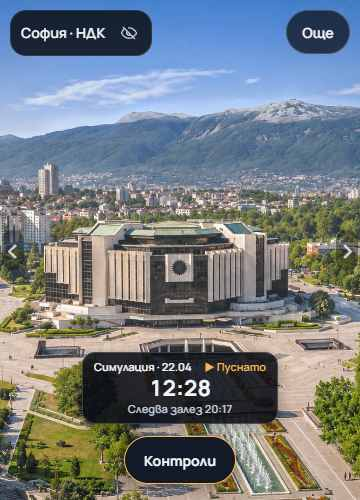
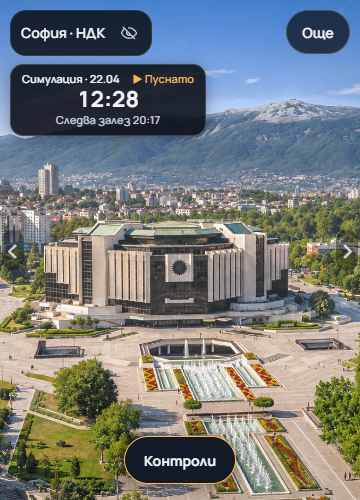
fix: place mobile clock below title

Changed region(s): [[0.2139, 0.69, 0.7944, 0.87], [0.0, 0.12, 0.5806, 0.3]]

diff --git a/src/ui/ui.css b/src/ui/ui.css
@@ -148,7 +148,7 @@ body.photo .photo-exit:focus-visible, body.photo .photo-exit:hover { opacity: 1;
 @media (prefers-reduced-motion: reduce) { * { transition: none !important; animation: none !important; } }
 
 @media (max-width: 820px), (max-height: 500px) {
-  .mobile-pan-hint { position: fixed; left: 50%; top: calc(var(--visible-top) + max(70px, env(safe-area-inset-top) + 62px)); z-index: 4; transform: translateX(-50%); width: min(290px, calc(100vw - 28px)); padding: 7px 12px 9px; border: 1px solid var(--line); border-radius: 13px; background: rgba(10,14,22,.88); color: var(--txt); font: 600 12px/1.3 var(--font); text-align: center; box-shadow: 0 3px 12px rgba(0,0,0,.2); }
+  .mobile-pan-hint { position: fixed; left: 50%; top: calc(var(--visible-top) + max(10px, env(safe-area-inset-top)) + 146px); z-index: 4; transform: translateX(-50%); width: min(290px, calc(100vw - 28px)); padding: 7px 12px 9px; border: 1px solid var(--line); border-radius: 13px; background: rgba(10,14,22,.88); color: var(--txt); font: 600 12px/1.3 var(--font); text-align: center; box-shadow: 0 3px 12px rgba(0,0,0,.2); }
   .mobile-pan-hint.is-visible { display: flex; flex-direction: column; align-items: center; gap: 2px; }
   .mobile-pan-hint-icons { display: flex; align-items: center; justify-content: center; gap: 8px; font-size: 16px; line-height: 1; }
   .mobile-pan-hint-icons svg { width: 17px; height: 17px; }
@@ -175,13 +175,13 @@ body.photo .photo-exit:focus-visible, body.photo .photo-exit:hover { opacity: 1;
   .mobile-more { display: inline-flex; min-width: 64px; }
   .mobile-open { display: block; position: fixed; left: 50%; bottom: calc(var(--visible-bottom) + env(safe-area-inset-bottom) + 16px); transform: translateX(-50%); z-index: 8; min-width: 112px; min-height: 48px; padding: 0 18px; border: 1px solid var(--acc); border-radius: 999px; background: #131a27; color: var(--txt); font: 700 14px var(--font); box-shadow: 0 4px 20px rgba(0,0,0,.45); cursor: pointer; }
   .mobile-open.is-open, body.photo .mobile-open { visibility: hidden; pointer-events: none; }
-  .mobile-clock { display: grid; gap: 2px; position: fixed; left: 50%; bottom: calc(var(--visible-bottom) + env(safe-area-inset-bottom) + 76px); transform: translateX(-50%); z-index: 7; box-sizing: border-box; width: 196px; max-width: calc(100vw - 32px); padding: 7px 11px 8px; border: 1px solid rgba(255,255,255,.18); border-radius: 13px; background: rgba(10,14,22,.88); color: var(--txt); box-shadow: 0 3px 14px rgba(0,0,0,.32); font: 600 11px/1.2 var(--font); text-align: center; pointer-events: none; user-select: none; }
+  .mobile-clock { display: grid; gap: 2px; position: fixed; left: max(10px, env(safe-area-inset-left)); top: calc(var(--visible-top) + max(10px, env(safe-area-inset-top)) + 54px); z-index: 7; box-sizing: border-box; width: 196px; max-width: calc(100vw - 32px); padding: 7px 11px 8px; border: 1px solid rgba(255,255,255,.18); border-radius: 13px; background: rgba(10,14,22,.88); color: var(--txt); box-shadow: 0 3px 14px rgba(0,0,0,.32); font: 600 11px/1.2 var(--font); text-align: center; pointer-events: none; user-select: none; }
   .mobile-clock-head { display: flex; justify-content: space-between; gap: 7px; white-space: nowrap; }
   #mobileClockStatus { color: var(--acc); }
   #mobileClockTime { font: 700 22px/1.1 var(--font); font-variant-numeric: tabular-nums; }
   .mobile-clock-next { color: var(--mut); white-space: nowrap; }
   .mobile-clock-next[hidden] { display: none; }
-  .panel.is-open ~ .mobile-clock, .mobile-menu.is-open ~ .mobile-clock, body.photo .mobile-clock { display: none; }
+  .panel.is-open ~ .mobile-clock, .mobile-menu.is-open ~ .mobile-clock, body.photo .mobile-clock, body.title-hidden .mobile-clock { display: none; }
   .panel { background: #111824; backdrop-filter: none; -webkit-backdrop-filter: none; max-height: min(80vh, calc(var(--visible-height) - var(--sheet-top))); visibility: hidden; opacity: 0; pointer-events: none; }
   @supports (height: 100dvh) { .panel { max-height: min(80dvh, calc(var(--visible-height) - var(--sheet-top))); } }
   .panel.is-open { visibility: visible; opacity: 1; pointer-events: auto; }
@@ -195,13 +195,13 @@ body.photo .photo-exit:focus-visible, body.photo .photo-exit:hover { opacity: 1;
   .mobile-menu .chip span { display: inline; }
   .mobile-menu .chip { backdrop-filter: none; -webkit-backdrop-filter: none; }
   .mobile-menu .chip svg { flex: none; }
-  .demo-bar { top: auto; bottom: calc(var(--visible-bottom) + env(safe-area-inset-bottom) + 174px); }
-  .toast { top: auto; bottom: calc(var(--visible-bottom) + env(safe-area-inset-bottom) + 174px); }
+  .demo-bar { top: auto; bottom: calc(var(--visible-bottom) + env(safe-area-inset-bottom) + 76px); }
+  .toast { top: auto; bottom: calc(var(--visible-bottom) + env(safe-area-inset-bottom) + 76px); }
   .mobile-open:focus-visible, .mobile-menu button:focus-visible, .mobile-sheet-header button:focus-visible, .title-hide:focus-visible, .title-restore:focus-visible { outline: 3px solid var(--acc); outline-offset: 2px; }
 }
 @media (max-height: 500px) and (min-width: 600px) {
   .title { max-width: min(220px, calc(100% - 88px)); }
   .panel { width: min(40%, 360px); max-height: calc(var(--visible-height) - var(--sheet-top)); }
   .mobile-menu { top: calc(var(--visible-top) + 58px); }
-  .mobile-open, .mobile-clock { left: max(16px, env(safe-area-inset-left)); transform: none; }
+  .mobile-open { left: max(16px, env(safe-area-inset-left)); transform: none; }
 }

diff --git a/docs/QA-mobile-clock.md b/docs/QA-mobile-clock.md
@@ -1,7 +1,7 @@
 # Постоянен мобилен часовник
 
-Малкият индикатор над „Контроли“ показва часа от състоянието на симулацията. При „Пуснато“ часът се обновява с основния цикъл на приложението и следващият изгрев или залез се изчислява със същия слънчев модул като сцената. След „Сега“ индикаторът показва реалния час на София и го сверява при смяна на минутата; ръчна промяна на часа или сезона връща надписа „Симулация“.
+Малкият индикатор под „София · НДК“ показва часа от състоянието на симулацията. Заглавието и часовникът се скриват и възстановяват заедно с бутона с око. При „Пуснато“ часът се обновява с основния цикъл на приложението и следващият изгрев или залез се изчислява със същия слънчев модул като сцената. След „Сега“ индикаторът показва реалния час на София и го сверява при смяна на минутата; ръчна промяна на часа или сезона връща надписа „Симулация“.
 
-`node tests/qa/mobile-clock.mjs` проверява production preview на порт 8080 за 360×640, 390×844, 412×915, 360×500, 390×700 с емулирана долна браузърна лента 64 px и 844×390. Проверяват се видимостта при затворен панел, липсата на дублиране при отворен панел, Play/Pause, смяната на часа, слънчевите събития, „Сега“, докосването през индикатора към снимката и разположението спрямо бутоните и видимия екран. При 1440×900 индикаторът е скрит. JPEG кадрите са в `docs/screenshots/mobile-clock/`.
+`node tests/qa/mobile-clock.mjs` проверява production preview на порт 8080 за 360×640, 390×844, 412×915, 360×500, 390×700 с емулирана долна браузърна лента 64 px и 844×390. Проверяват се видимостта при затворен панел, съвместното скриване и възстановяване със заглавието, липсата на дублиране при отворен панел, Play/Pause, смяната на часа, слънчевите събития, „Сега“, докосването през индикатора към снимката и разположението спрямо „Още“, подсказката за панорамиране и видимия екран. При 1440×900 индикаторът е скрит. JPEG кадрите са в `docs/screenshots/mobile-clock/`.
 
 Емулацията на Playwright не замества проверка на реален Android Chrome и Messenger in-app браузър.
